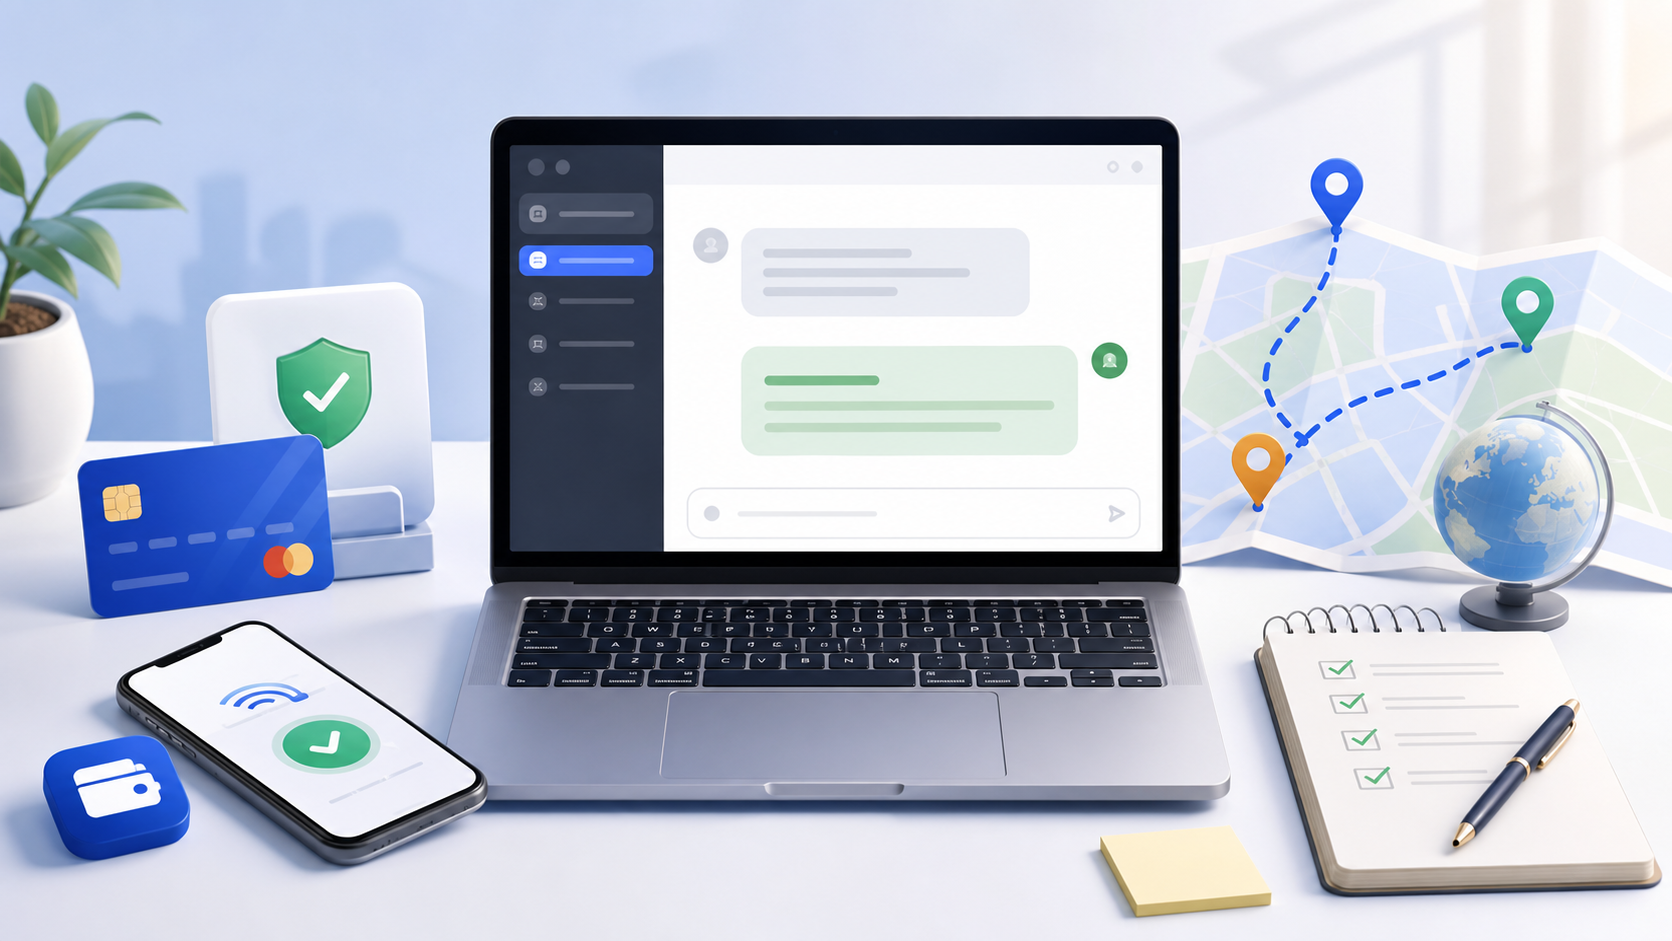
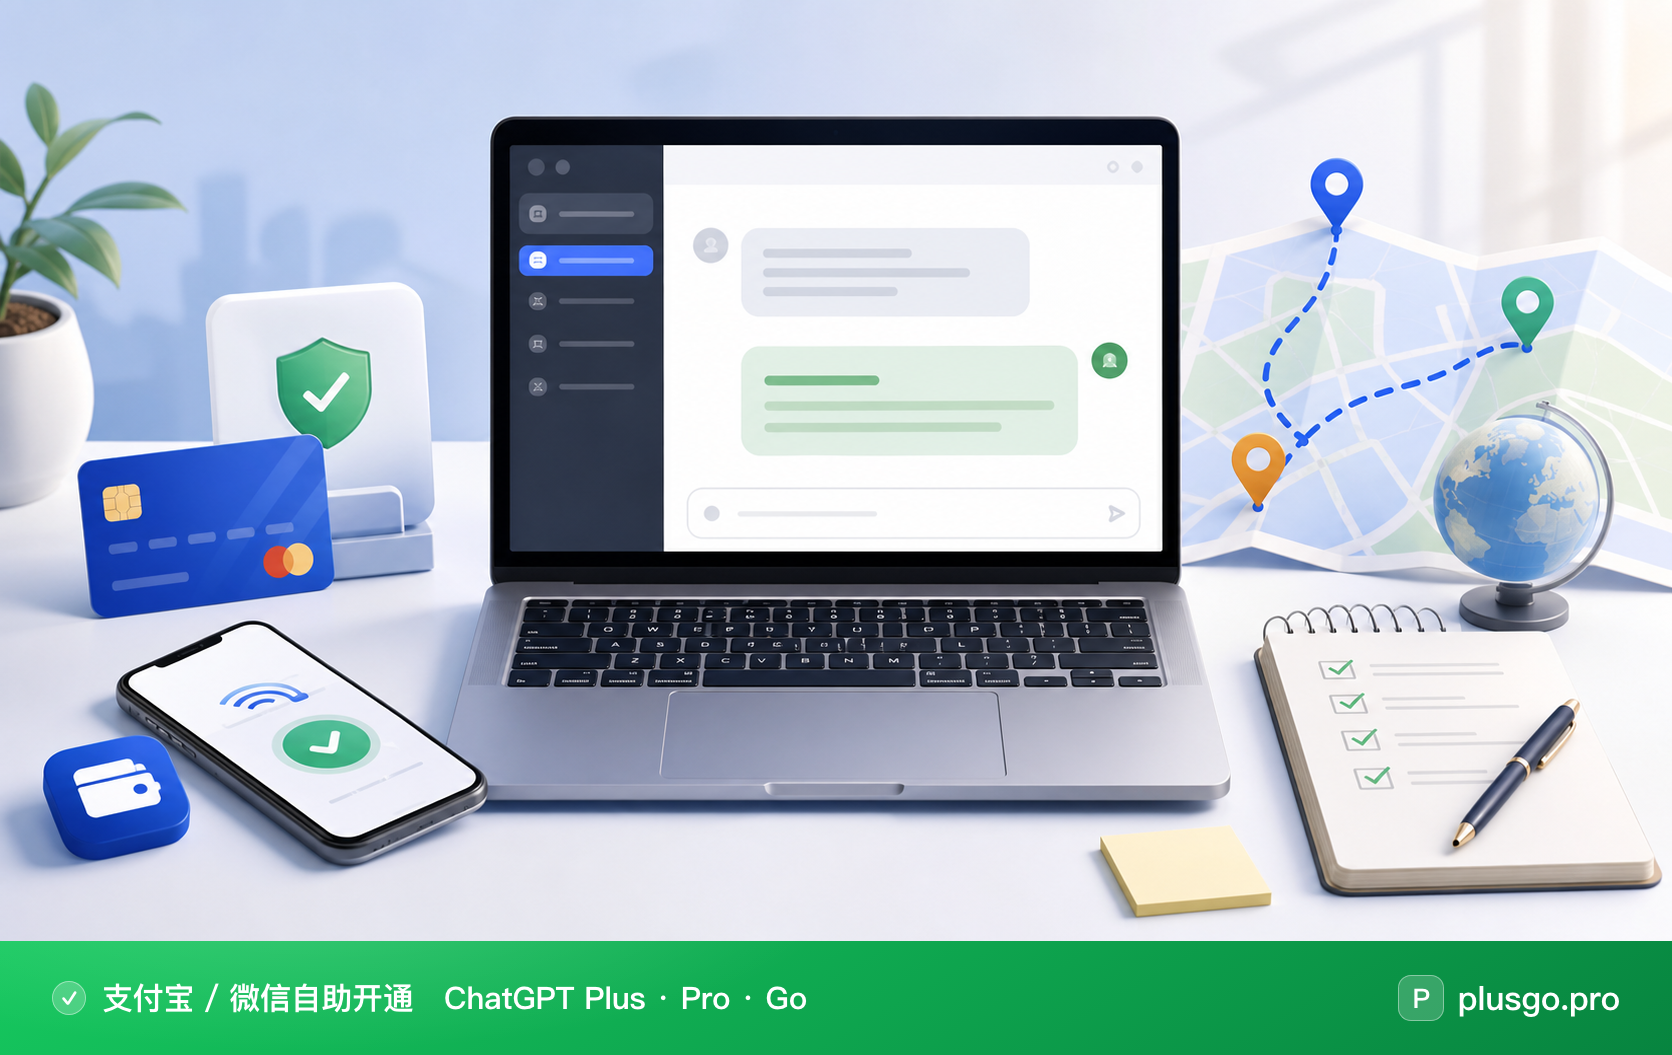
docs: README 封面底部加入站点链接条，并让封面可点击

diff --git a/README.md b/README.md
@@ -2,7 +2,7 @@
 
 <p align="center">本教程最新更新时间：2026 年 7 月 10 日 · 官方渠道，自助充值，不用交账号密码，支持开发票可报销</p>
 
-![2026 年最新 ChatGPT 充值 / 代充教程封面](./assets/images/chatgpt-plus-cover.png)
+[![2026 年最新 ChatGPT 充值 / 代充教程封面](./assets/images/chatgpt-plus-cover.png)](https://plusgo.pro/?utm_source=github01)
 
 **建议收藏 + Star 本 ChatGPT 充值教程，方便随时回来查，也防止丢失。**
 
